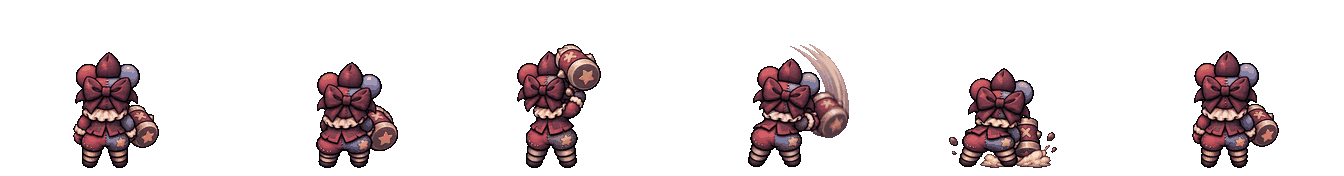
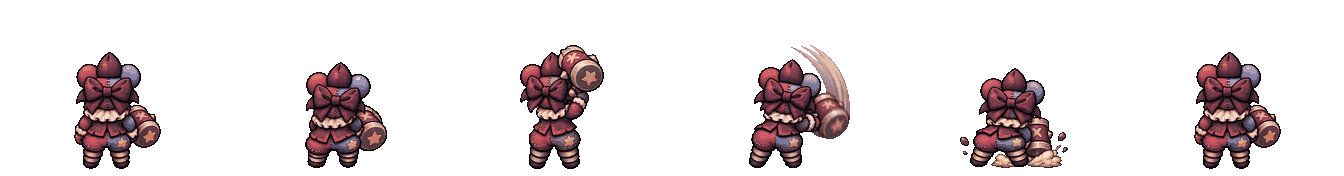
PATCHWORK pixel: dùng bản đập búa 6 khung đã căn khung mới nhất

diff --git a/docs/demo-hop-tuong/TIEN-DO-V3.md b/docs/demo-hop-tuong/TIEN-DO-V3.md
@@ -234,7 +234,7 @@ Người dùng: "chưa đổi phong cách game, toàn bộ vẫn là cyber". Là
 ## PATCHWORK — tướng PIXEL ART đầu tiên + đường render pixel dùng lại (03/11/2026, phiên tự động)
 Người dùng đã quyết định chuyển game sang pixel art dần dần. PATCHWORK (VÀNG · BIẾN HÌNH · Ô KỀ, dòng 97/174 tài liệu tư vấn 24 tướng) là tướng pixel đầu tiên. Không viết test; đã chạy thử bằng trình duyệt (390×844, DPR 2 và 3): không lỗi JS, xem ảnh chụp đứng yên / đang đập / dạng to.
 
-1. **Ảnh** (copy nguyên, không vẽ lại / không méo) → `demo/assets/v3/pixel/`: `patchwork_8dir.png` (8 ô 128), `patchwork_idle_s.png` (4 ô 176), `patchwork_atk_s|w|n.png` (6 ô 224×176).
+1. **Ảnh** (copy nguyên, không vẽ lại / không méo; bản dap6 đã căn khung của phiên khác đẩy lên cùng lúc — ảnh 12 khung `px_patchwork_dap12_s.png` CHƯA dùng) → `demo/assets/v3/pixel/`: `patchwork_8dir.png` (8 ô 128), `patchwork_idle_s.png` (4 ô 176), `patchwork_atk_s|w|n.png` (6 ô 224×176).
    - **Lưu ý thứ tự 8 hướng**: xem ảnh thì thứ tự thật trên màn hình là **S, SW, W, NW, N, NE, E, SE** (ô 3 quay mặt sang TRÁI = W, khớp `atk_w`), không phải S, SE, E… như ghi chú PixelLab. Đã khai đúng theo ảnh trong `data.js px.dir8.thuTu` — nếu ảnh khác thì chỉ sửa mảng này.
 2. **Đường render pixel** (`render.js vePixel`, bật khi `TUONG[id].px` có và ảnh đã tải):
    - `imageSmoothingEnabled = false`; tỉ lệ tính theo **px thiết bị**: cao ≈ `C.TUONG_CAO × co` như tướng khác → số px thiết bị / 1 px ảnh, **≥ 1 thì làm tròn số nguyên** (iPhone DPR 3: đúng 1:1), < 1 thì giữ tỉ lệ nhưng góc ảnh bắt lưới px thiết bị.
